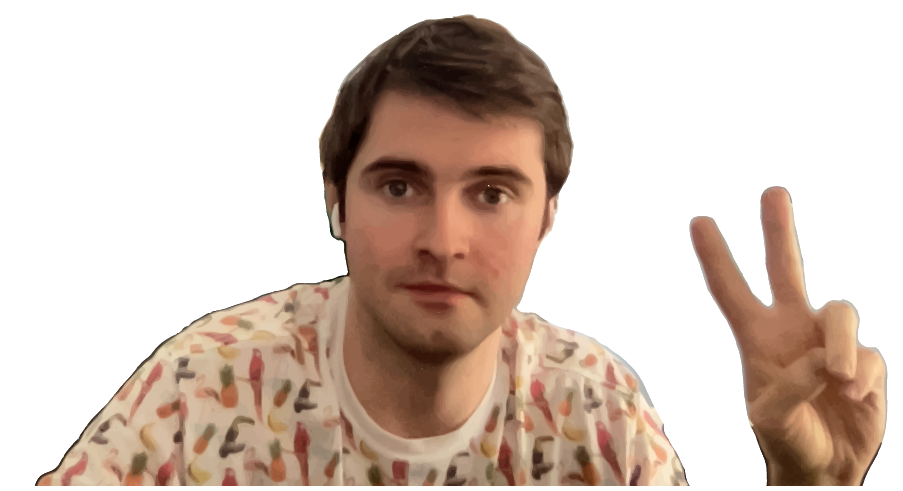
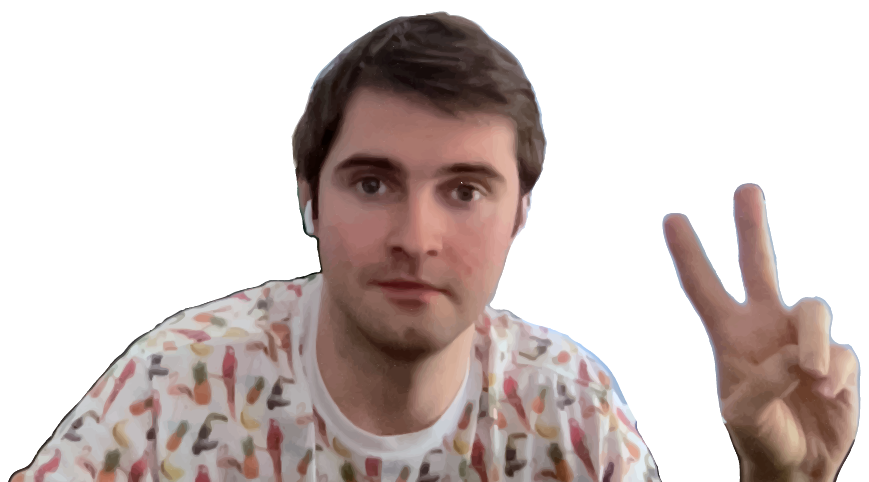
new selfie

diff --git a/assets/css/style.css b/assets/css/style.css
@@ -169,7 +169,7 @@ header h1 {
   right: 2rem;
   z-index: 1;
   background-image: linear-gradient(rgba(0, 0, 0, 0.5), rgba(0, 0, 0, 0.25));
-  /* background-image: linear-gradient(rgb(61, 61, 61),   rgb(97, 97, 97)); */
+  background-image: linear-gradient(rgb(61, 61, 61),rgb(97, 97, 97));
   /* CONSIDER MAKING THIS THING SOLID */
   box-shadow: 0vmax 0.1vmax 0.3vmax 0.2vmax rgba(0, 0, 0, 0.363);
   border: outset 2px rgba(0, 0, 0, 0.103);
@@ -216,22 +216,21 @@ header h1 {
   display: flex;
   justify-content: space-around;
   align-items: center;
-  padding: 1rem 7rem;
+  padding: 1rem 7rem 0rem 7rem;
 }
 .hero .image {
   display: flex;
   justify-content: center;
   align-items: center;
-  overflow: hidden;
-  border-radius: 50%;
-  width: 15vw;
-  height: 15vw;
-  border: inset 1vw rgba(146, 221, 255, 0.42);
+  /* overflow: hidden; */
+  /* border-radius: 50%; */
+  height: 100%;
+  /* border: inset 1vw rgba(146, 221, 255, 0.42); */
 }
 .hero img {
-  width: 40vw;
+  width: 25vw;
   height: auto;
-  align-self: center;
+  align-self: flex-end;
 }
 .centerfold {
   display: flex;
@@ -260,11 +259,13 @@ header h1 {
 .clock {
   display: flex;
   justify-content: center;
+  align-content: center;
   align-items: center;
   background-color: black;
   border-radius: 50%;
   height: 15vw;
   width: 15vw;
+  margin-bottom: 1rem;
 }
 .face {
   display: flex;
@@ -288,7 +289,7 @@ header h1 {
   justify-content: center;
   align-items: center;
   border-radius: 50%;
-  height: 0.1vw;
+  height: 0.1vw; /* proud of this */
   width: 1vw;
   overflow: visible;
 }

diff --git a/index.html b/index.html
@@ -63,7 +63,7 @@
   <section class="hero">
     <div class="banner">
       <div class="image" title="looks like a goober">
-        <img src="./assets/images/selfie.jpg">
+        <img src="./assets/images/selfie.png">
       </div>
 
       <div class="centerfold">
